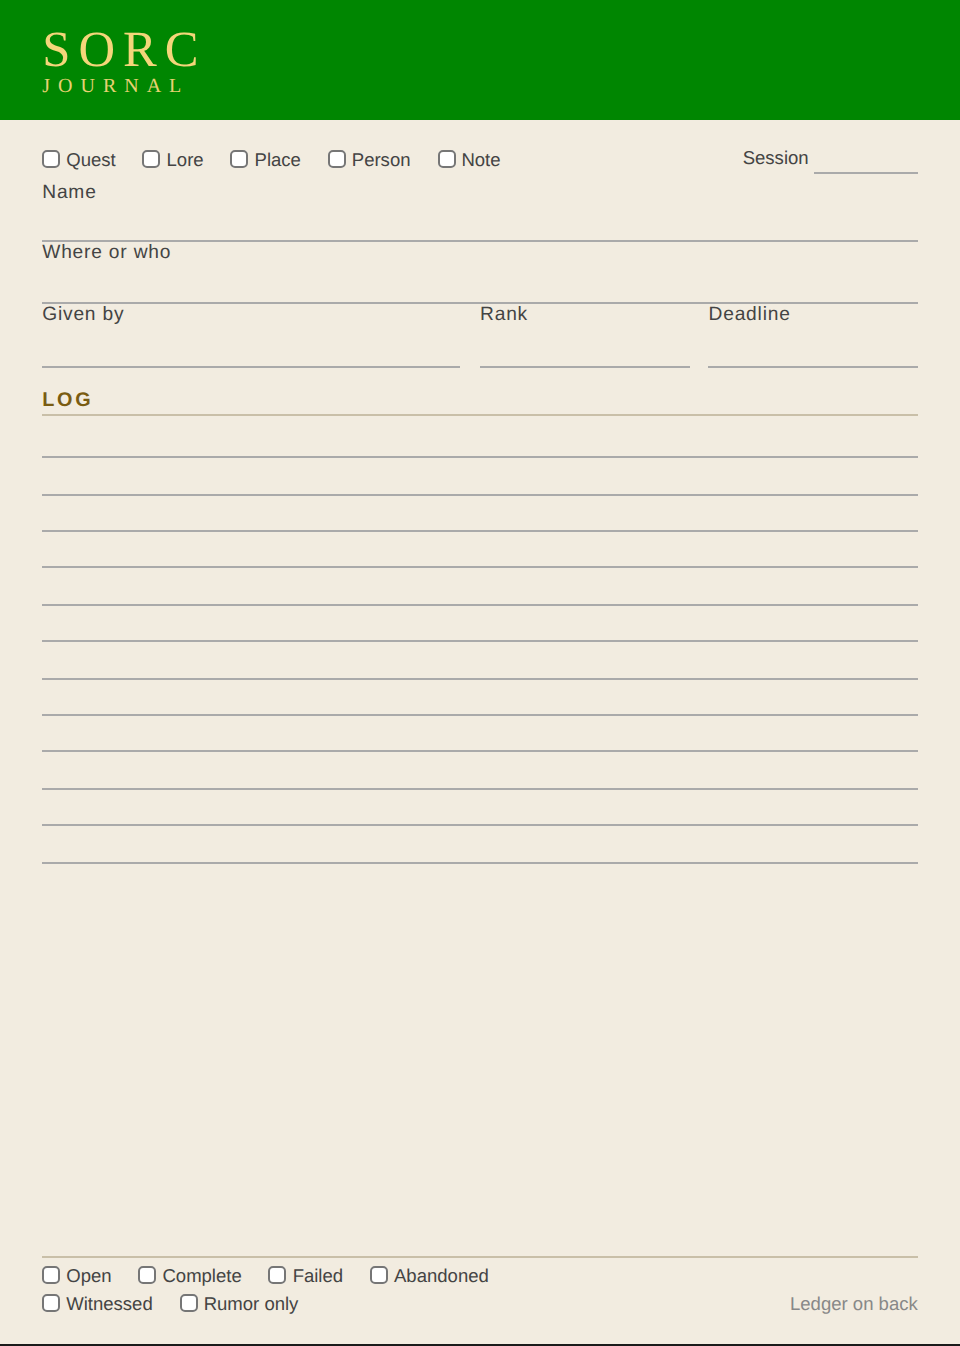
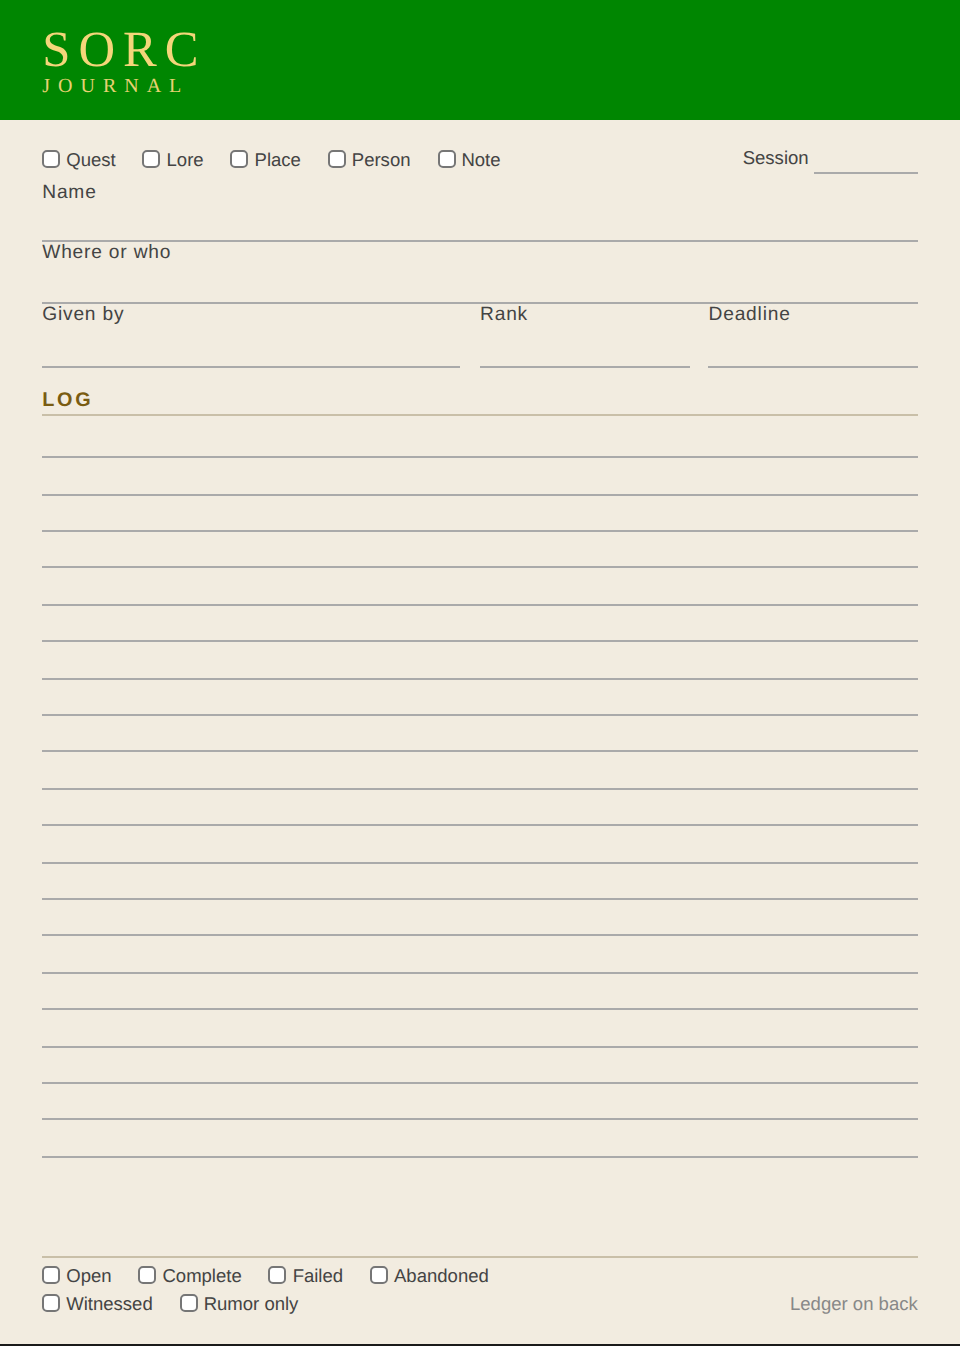
Journal sheet: three load bands, fuller front log
- Carry weight now offers all three load bands from rules_ref_005:517,
  Light Load, Burdened and Encumbered, as a pick-one. Only Encumbered was
  on the sheet before, which skipped the band that actually comes up.
- Front log grows from twelve lines to twenty, filling dead space under it.
- One Notes line traded on the back so Cards added is not pushed off the
  sheet.

Claude-Session: https://claude.ai/code/session_01UQn6ioEjhD7PzmymrEL9uu

diff --git a/journal-tearaway.html b/journal-tearaway.html
@@ -45,7 +45,7 @@
              display:flex; gap:.14in; flex-wrap:wrap; font-size:.58rem; color:#444;
              align-items:center; }
     .strip label { cursor:pointer; }
-    .strip input[type=checkbox] { width:9px; height:9px; margin:0 3px 0 0; vertical-align:-1px;
+    .strip input[type=checkbox], .strip input[type=radio] { width:9px; height:9px; margin:0 3px 0 0; vertical-align:-1px;
                                   accent-color:#008601; }
     .mini { width:.5in; border:none; border-bottom:1px solid #aaa; background:transparent;
             font-size:.62rem; color:#3d3d3d; }
@@ -98,12 +98,26 @@
             </div>
 
             <h2 class="sec">Log</h2>
-            <input class="fline" type="text"><input class="fline" type="text">
-            <input class="fline" type="text"><input class="fline" type="text">
-            <input class="fline" type="text"><input class="fline" type="text">
-            <input class="fline" type="text"><input class="fline" type="text">
-            <input class="fline" type="text"><input class="fline" type="text">
-            <input class="fline" type="text"><input class="fline" type="text">
+            <input class="fline" type="text">
+            <input class="fline" type="text">
+            <input class="fline" type="text">
+            <input class="fline" type="text">
+            <input class="fline" type="text">
+            <input class="fline" type="text">
+            <input class="fline" type="text">
+            <input class="fline" type="text">
+            <input class="fline" type="text">
+            <input class="fline" type="text">
+            <input class="fline" type="text">
+            <input class="fline" type="text">
+            <input class="fline" type="text">
+            <input class="fline" type="text">
+            <input class="fline" type="text">
+            <input class="fline" type="text">
+            <input class="fline" type="text">
+            <input class="fline" type="text">
+            <input class="fline" type="text">
+            <input class="fline" type="text">
 
             <div class="spacer"></div>
             <div class="strip">
@@ -183,12 +197,14 @@
             <h2 class="sec">Notes</h2>
             <input class="fline" type="text"><input class="fline" type="text">
             <input class="fline" type="text"><input class="fline" type="text">
-            <input class="fline" type="text"><input class="fline" type="text">
+            <input class="fline" type="text">
 
             <div class="spacer"></div>
             <div class="strip">
               <span>Carry weight <input class="mini" type="text"></span>
-              <label><input type="checkbox">Encumbered</label>
+              <label><input type="radio" name="load">Light Load</label>
+              <label><input type="radio" name="load">Burdened</label>
+              <label><input type="radio" name="load">Encumbered</label>
               <span>Cards added <input class="mini" type="text"></span>
             </div>
           </div>
